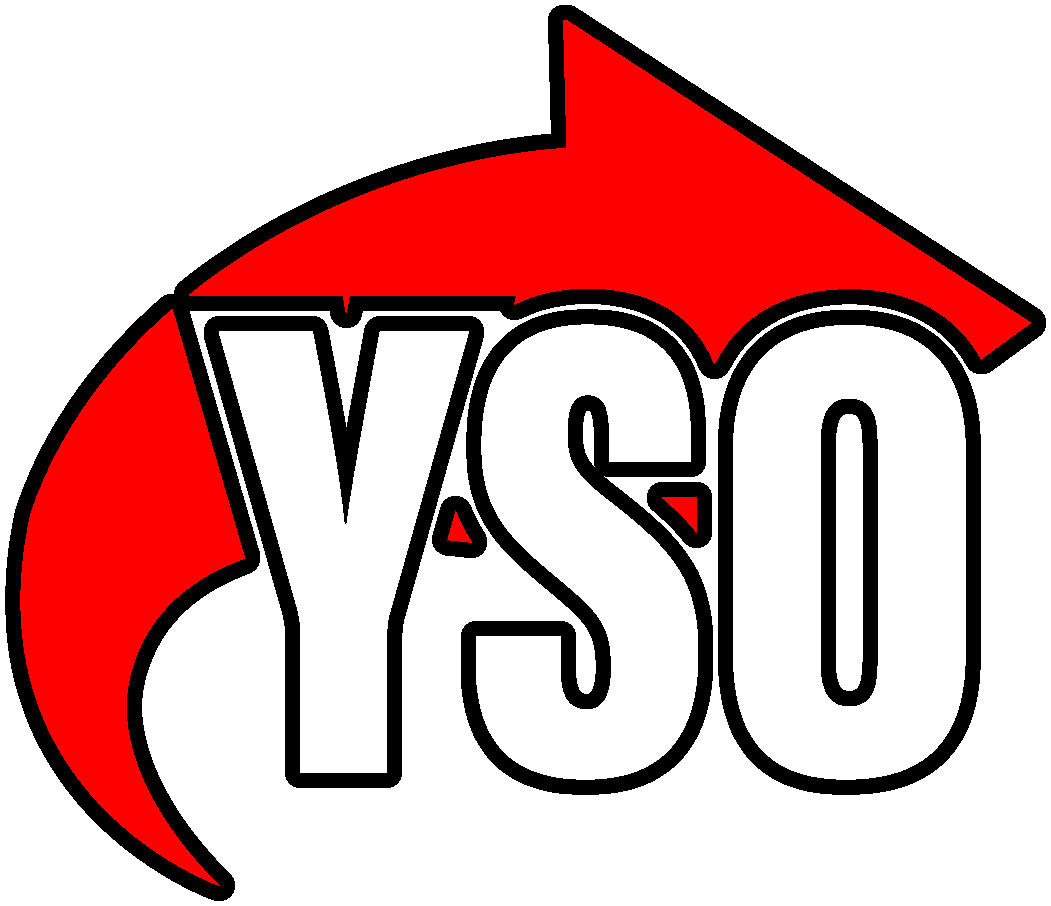
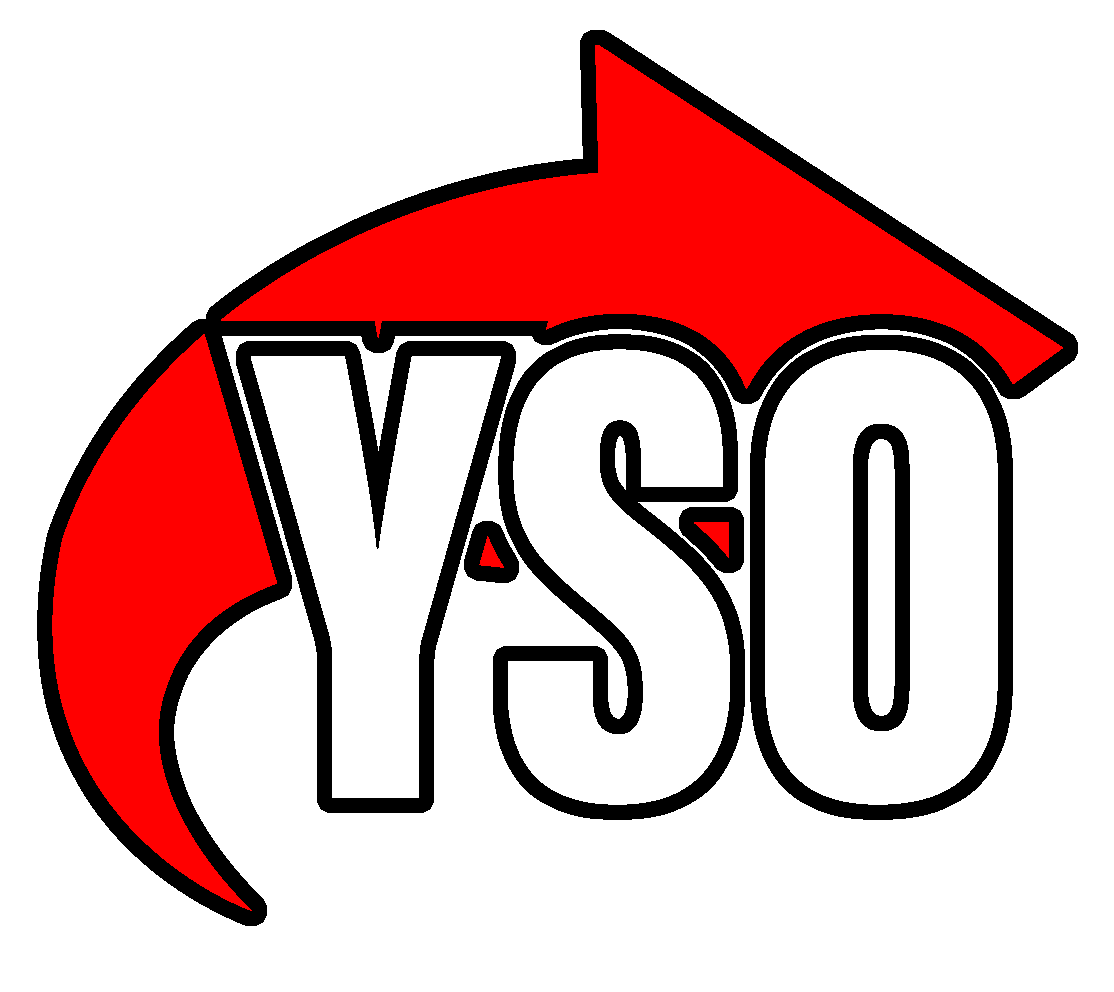
added drop shadow to custom yso map marker

Changed region(s): [[0.0, 0.0, 1.0, 1.0]]

diff --git a/public/js/show-map.js b/public/js/show-map.js
@@ -26,18 +26,18 @@ function loadScript() {
         lng: -82.727766,
     };
 
-    // current location marker data
-    let myLocationMarker = {
+    // marker data
+    const myLocationMarker = {
         lat: myLocation.lat,
         lng: myLocation.lng,
         name: "You Are Here.",
         address: "Clearwater, FL 33764",
     };
 
-    // BUILDS AND ADDS MAP ON CLICKING MAP ICON
+    // // BUILDS AND ADDS MAP ON CLICKING MAP ICON
     function loadMap(zoomLevel) {
         const ysoIcon = {
-            url: "../img/yso-clipped-rw-outlined.png",
+            url: "../img/yso-clipped-rw-shadowed.png",
             //state your size parameters in terms of pixels
             size: new google.maps.Size(35, 35),
             scaledSize: new google.maps.Size(35, 35),
@@ -53,48 +53,45 @@ function loadScript() {
                 style: google.maps.MapTypeControlStyle.DROPDOWN_MENU,
             },
         });
-        // sets marker bubble info
-        let markerInfo = new google.maps.InfoWindow({
-            maxWidth: 200,
-            content: `
-                    <span class='map-bubble-heading'>${myLocationMarker.name}</span>
+        markerGroup = [];
+        markerGroup.push(myLocationMarker);
+        markerGroup.map((marker) => {
+            let markerInfo = new google.maps.InfoWindow({
+                maxWidth: 200,
+                content: `
+                    <span class='map-bubble-heading'>${marker.name}</span>
                     <div class='map-bubble-address'>
-                        <span>${myLocationMarker.address}</span>
+                        <span>${marker.address}</span>
                     </div>
                 `,
-        });
-        // sets marker location
-        myLocationMarker = new google.maps.Marker({
-            position: new google.maps.LatLng(
-                myLocationMarker.lat,
-                myLocationMarker.lng
-            ),
-            optimized: false,
-            animation: google.maps.Animation.DROP,
-            icon: ysoIcon,
-            zIndex: 2,
-        });
-        // delay for the marker bubble auto open
-        setTimeout(() => {
-            markerInfo.open({
-                anchor: myLocationMarker,
-                map: map,
-                shouldFocus: false,
             });
-        }, 1000);
-        // places marker on map with click event
-        myLocationMarker.setMap(map);
-        myLocationMarker.addListener("click", () => {
-            markerInfo.open({
-                anchor: myLocationMarker,
-                map: map,
-                shouldFocus: false,
+            marker = new google.maps.Marker({
+                position: new google.maps.LatLng(marker.lat, marker.lng),
+                optimized: false,
+                animation: google.maps.Animation.DROP,
+                icon: ysoIcon,
+                zIndex: 2,
             });
-            // myLocationMarker.setMap(null);
+            setTimeout(() => {
+                markerInfo.open({
+                    anchor: marker,
+                    map: map,
+                    shouldFocus: false,
+                });
+            }, 1000);
+            marker.setMap(map);
+            marker.addListener("click", () => {
+                markerInfo.open({
+                    anchor: marker,
+                    map: map,
+                    shouldFocus: false,
+                });
+                // marker.setMap(null);
+            });
         });
     }
 
-    // MAKES EACH MARKER, ADDS CLICK EVENT FOR MARKER BUBBLE
+    // makes each marker, adds event to open info when clicked
     function buildAdditionalMarkers(marker) {
         let markerInfo = new google.maps.InfoWindow({
             maxWidth: 200,
